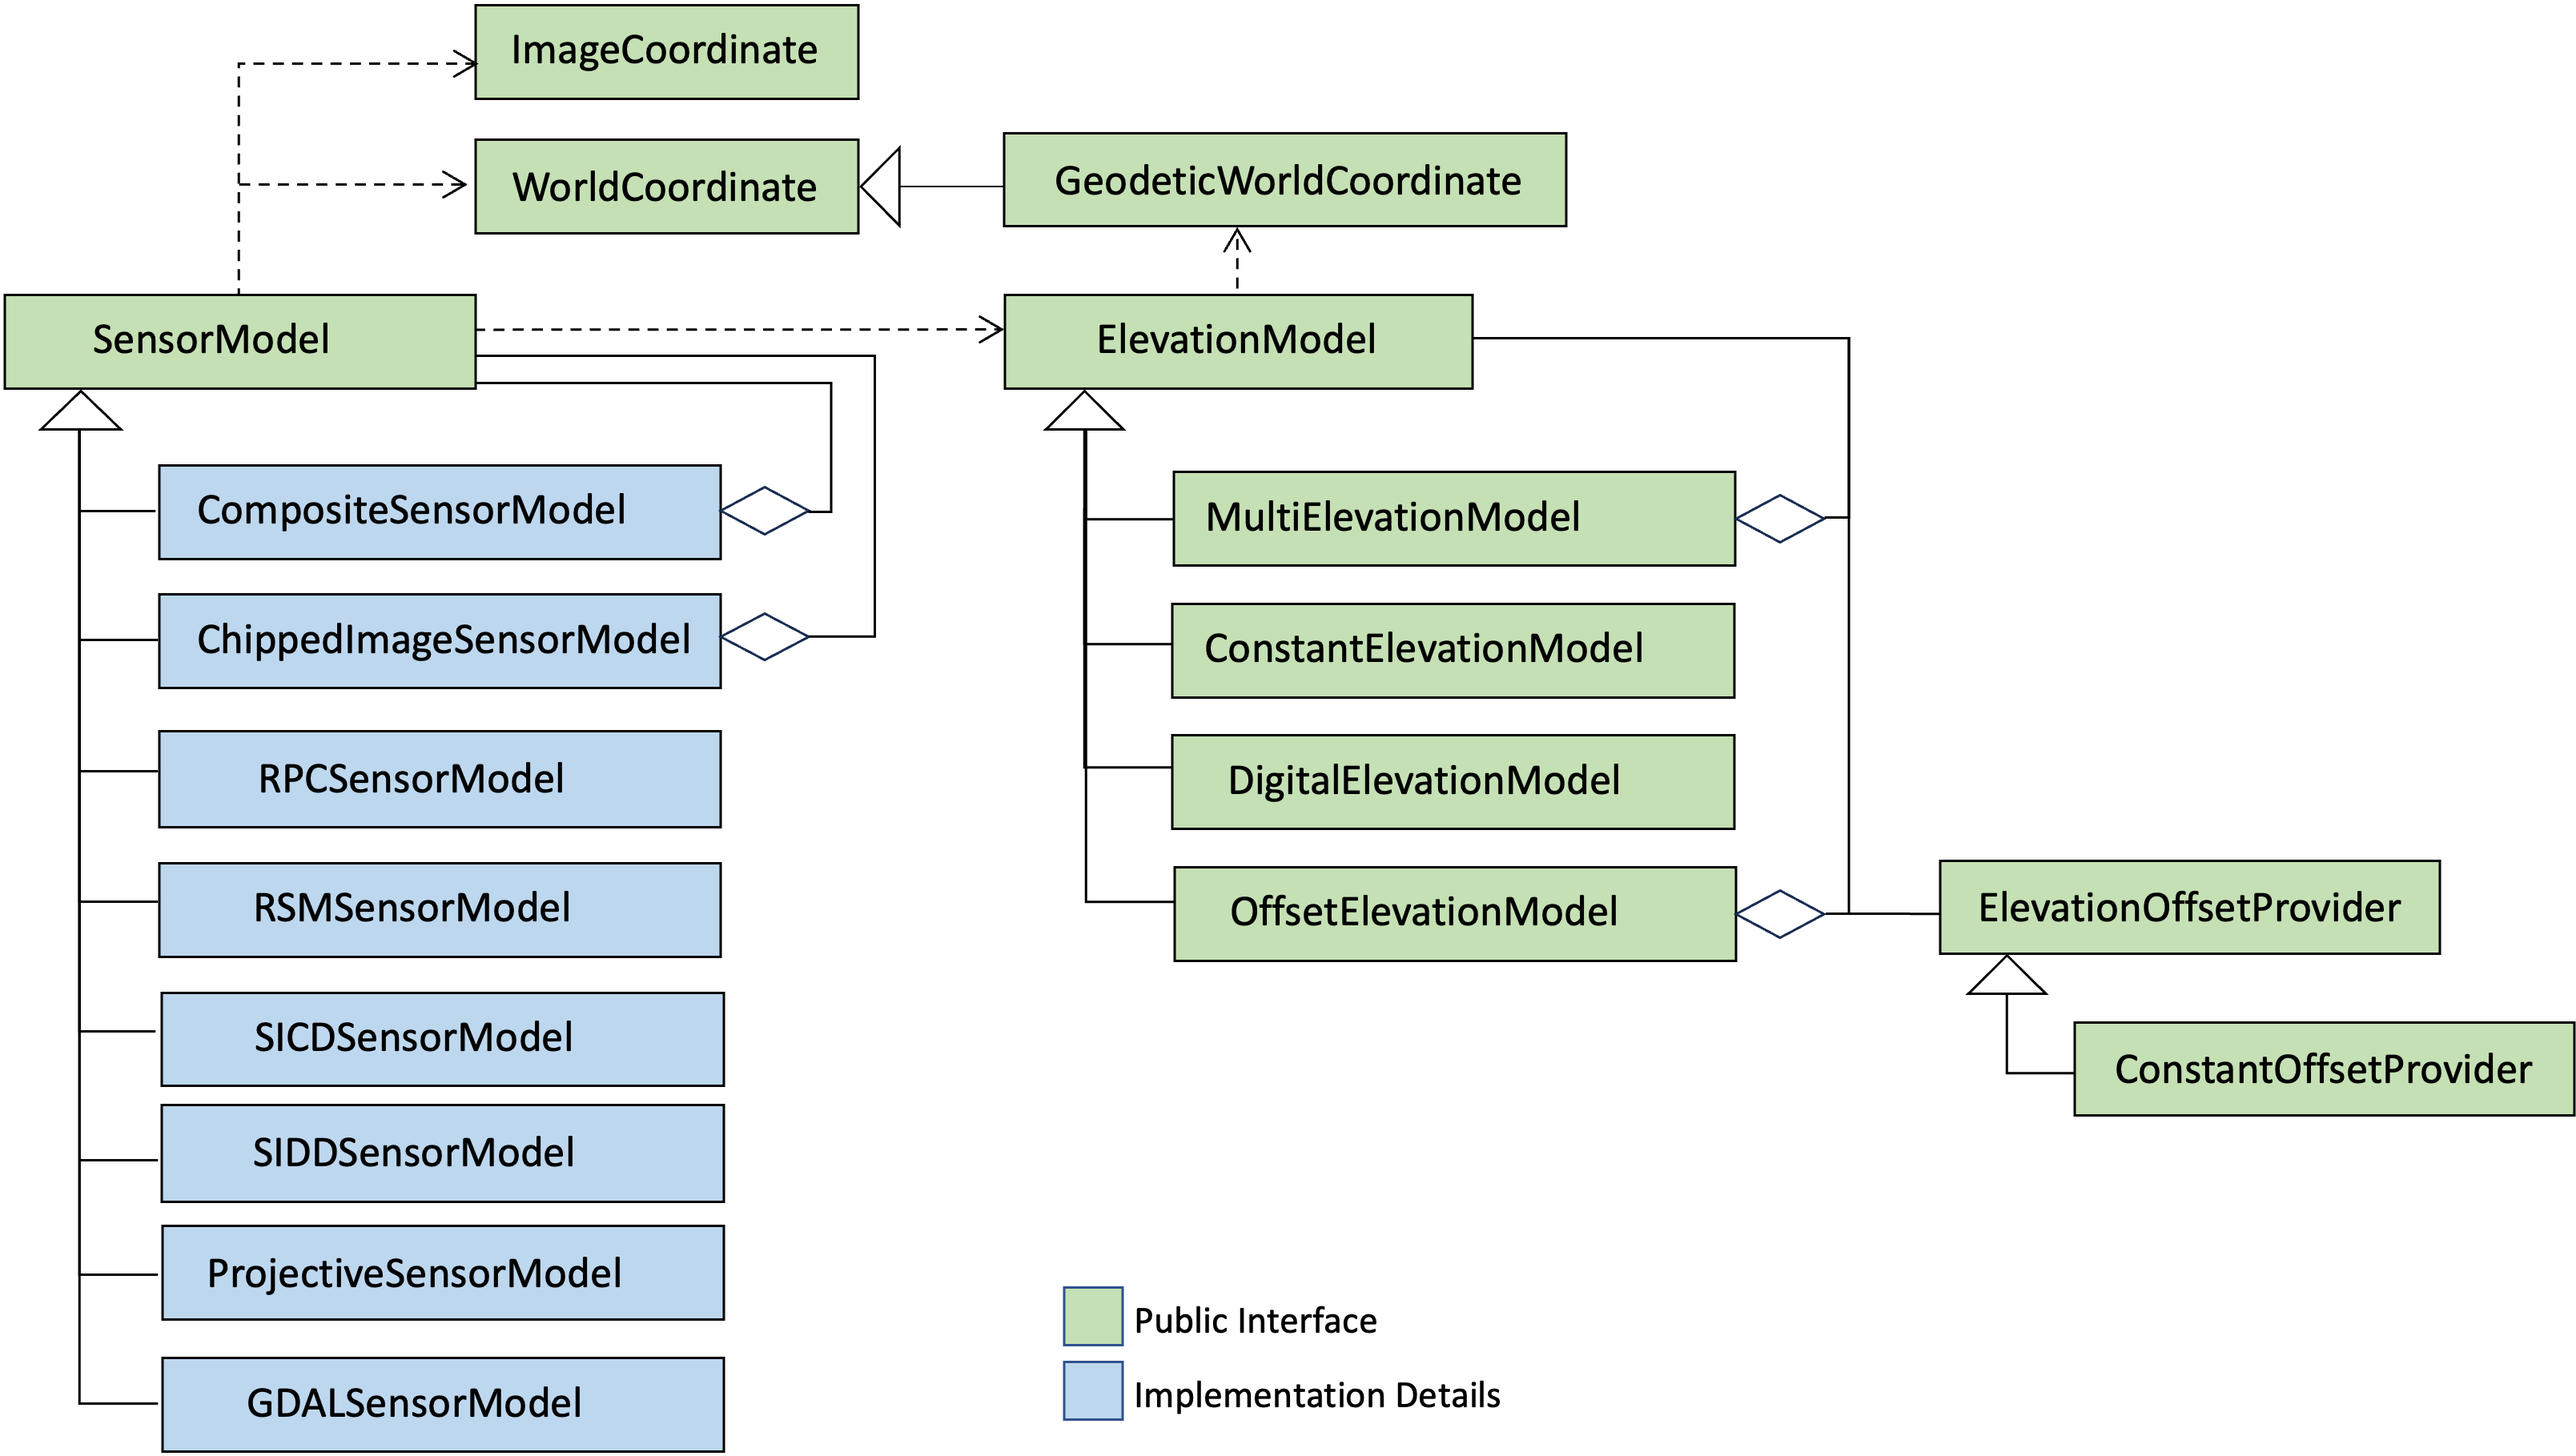
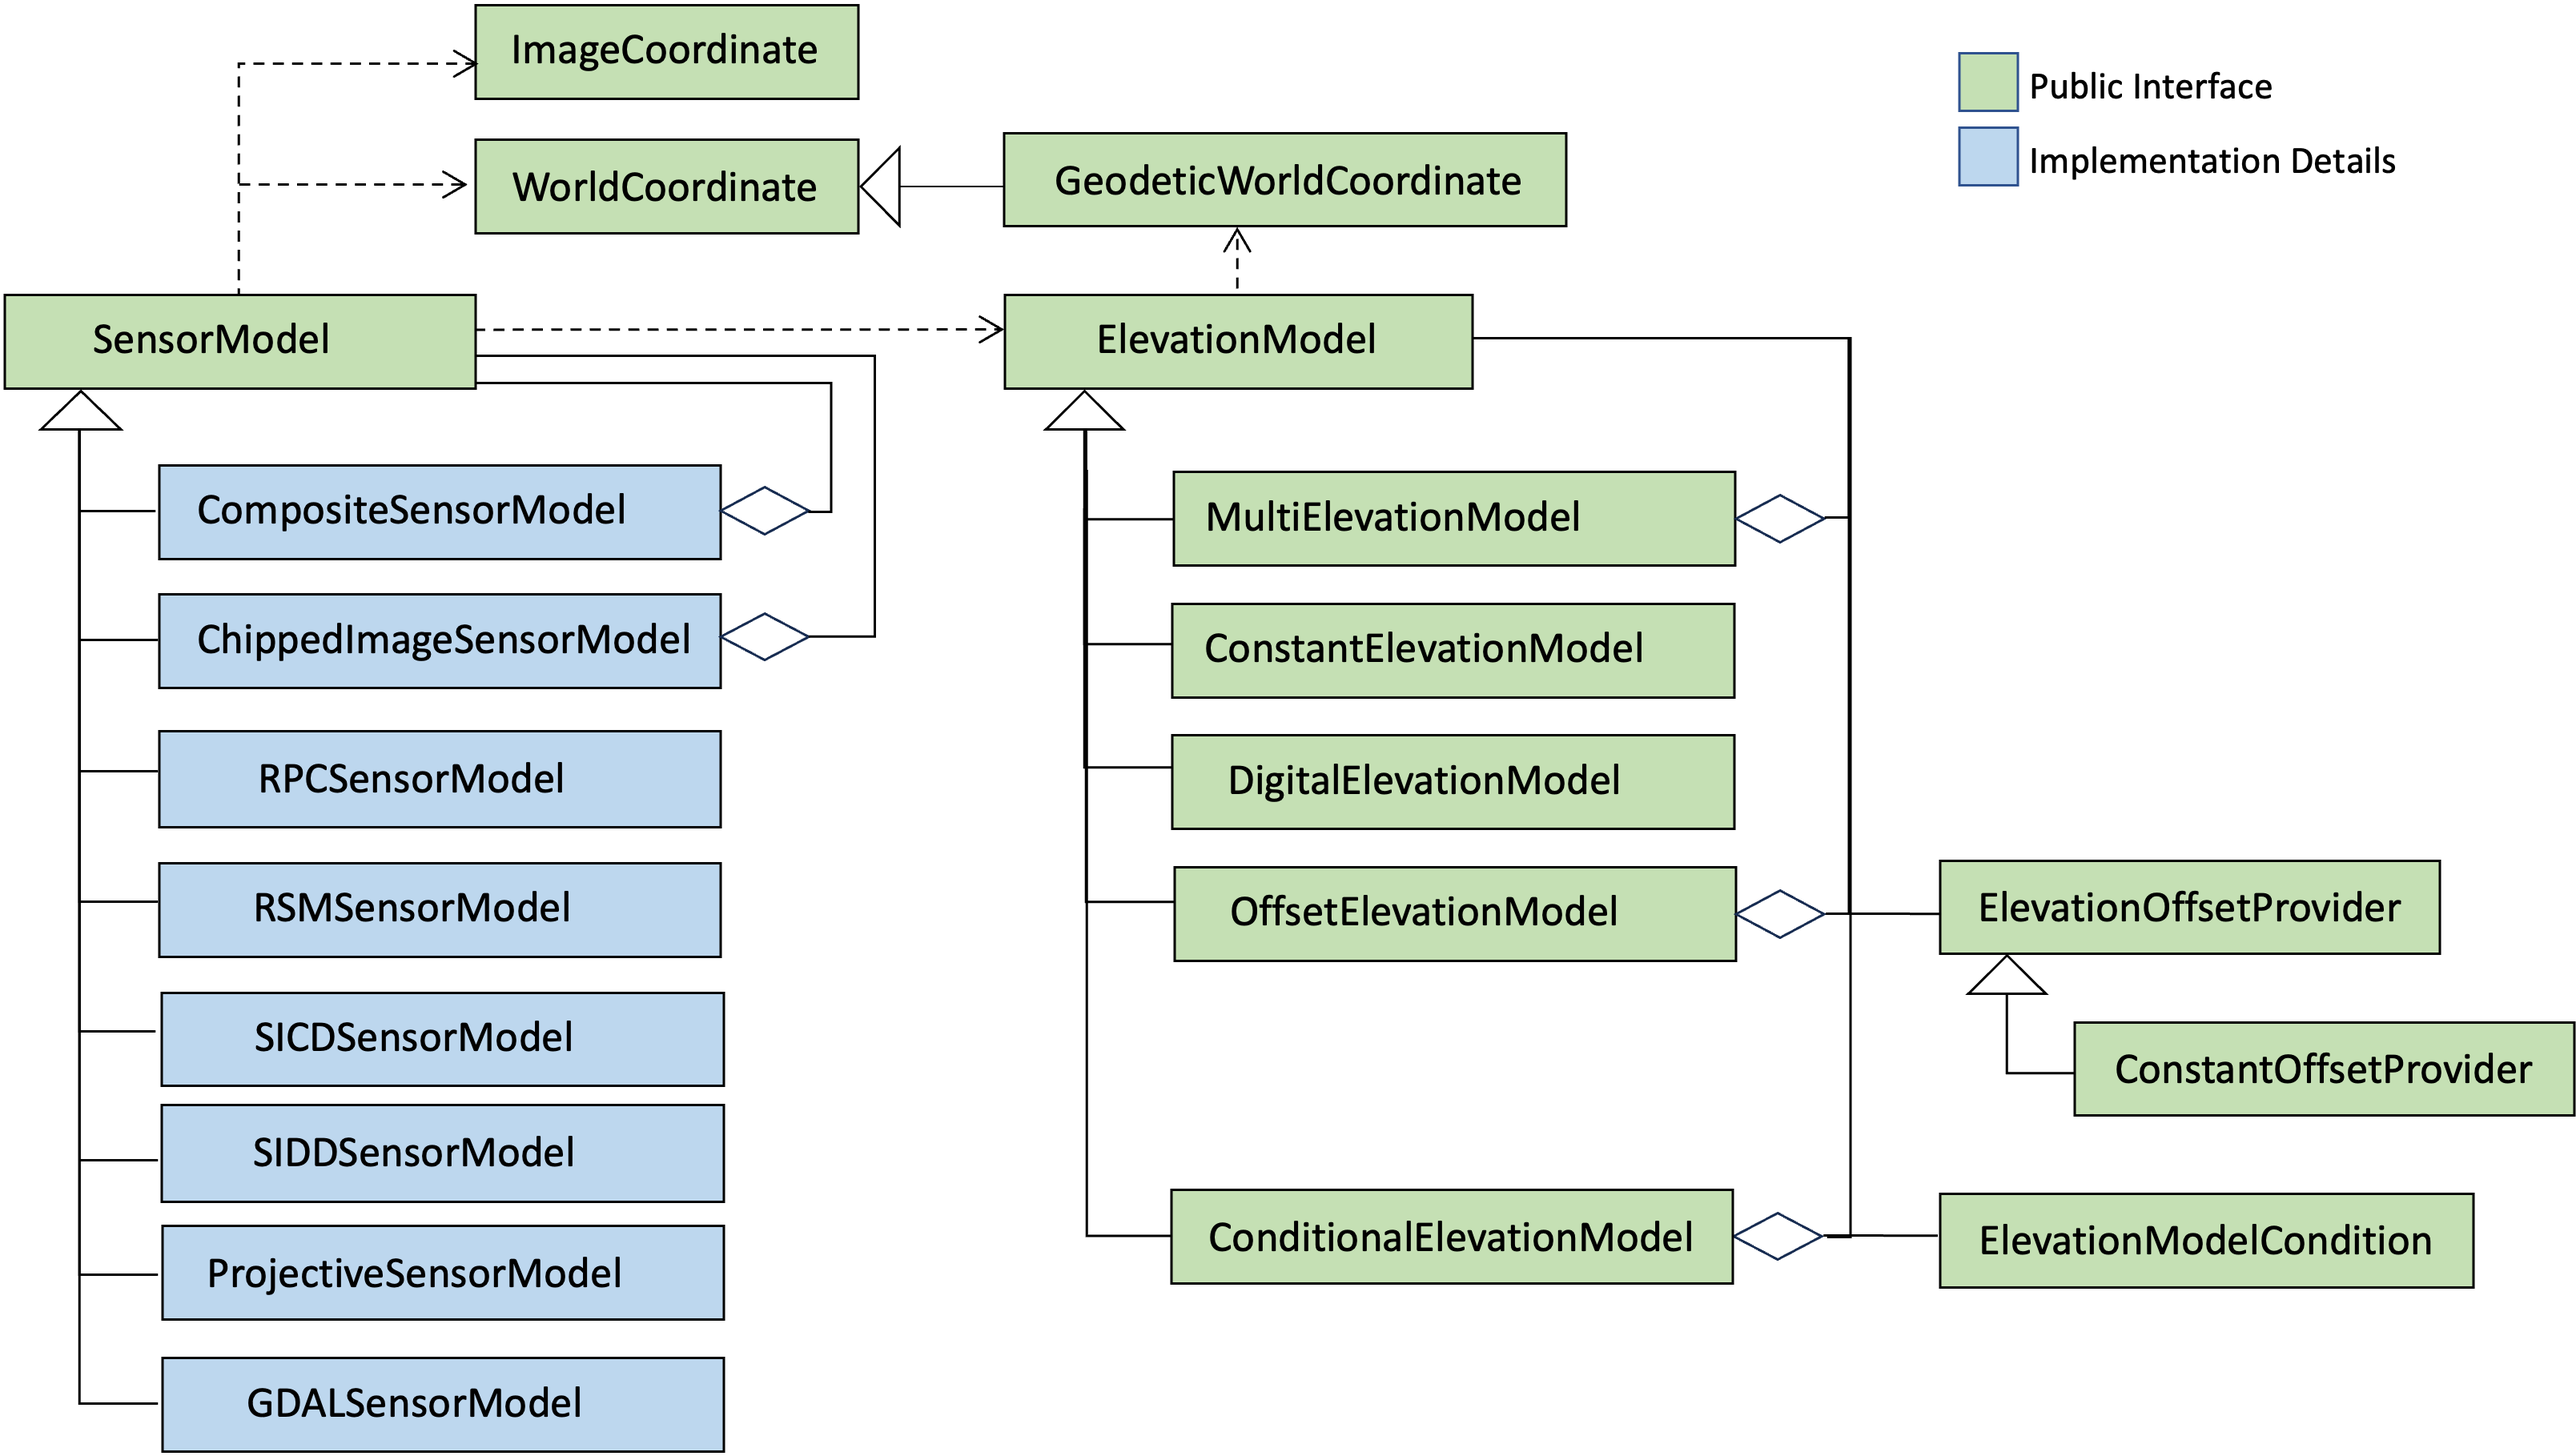
feat: conditional elevation model

Changed region(s): [[0.4041, 0.8004, 0.715, 0.9852], [0.746, 0.8004, 0.9636, 0.8928], [0.746, 0.0308, 0.9325, 0.1231]]

diff --git a/src/aws/osml/photogrammetry/conditional_elevation_model.py b/src/aws/osml/photogrammetry/conditional_elevation_model.py
@@ -1,0 +1,56 @@
+#  Copyright 2025-2025 General Atomics Integrated Intelligence, Inc.
+
+from typing import Optional
+
+from .coordinates import GeodeticWorldCoordinate
+from .elevation_model import ElevationModel, ElevationRegionSummary
+from .em_condition import ElevationModelCondition
+
+
+class ConditionalElevationModel(ElevationModel):
+    """
+    An elevation model that sets elevation using an inner elevation model only if it first passes a condition on the
+    given coordinate.
+    """
+
+    def __init__(
+        self,
+        inner_elevation_model: ElevationModel,
+        em_condition: ElevationModelCondition,
+    ) -> None:
+        """
+        Create the model using a nested ElevationModel and a condition for its usage.
+
+        :param inner_elevation_model: the inner model that actually sets elevation
+        :param em_condition: the condition that must pass to set elevation
+
+        :return: None
+        """
+        super().__init__()
+        self.inner_elevation_model = inner_elevation_model
+        self.em_condition = em_condition
+
+    def set_elevation(self, world_coordinate: GeodeticWorldCoordinate) -> bool:
+        """
+        Set elevation conditionally using the inner model.
+
+        :param world_coordinate: the coordinate to update
+
+        :return: True if the elevation was updated, else False
+        """
+        if self.em_condition.is_true(world_coordinate):
+            return self.inner_elevation_model.set_elevation(world_coordinate)
+        return False
+
+    def describe_region(
+        self,
+        world_coordinate: GeodeticWorldCoordinate,
+    ) -> Optional[ElevationRegionSummary]:
+        """
+        Unimplemented summary of region near the provided world coordinate
+
+        :param world_coordinate: the coordinate at the center of the region of interest
+
+        :return: None
+        """
+        return None

diff --git a/test/aws/osml/photogrammetry/test_conditional_elevation_model.py b/test/aws/osml/photogrammetry/test_conditional_elevation_model.py
@@ -1,0 +1,35 @@
+#  Copyright 2025-2025 General Atomics Integrated Intelligence, Inc.
+
+import unittest
+
+
+class TestElevationModel(unittest.TestCase):
+    def test_constant_elevation_model(self):
+        from aws.osml.photogrammetry.conditional_elevation_model import ConditionalElevationModel
+        from aws.osml.photogrammetry.coordinates import GeodeticWorldCoordinate
+        from aws.osml.photogrammetry.elevation_model import ConstantElevationModel
+        from aws.osml.photogrammetry.em_condition import EMConditionFalse, EMConditionTrue
+
+        inner_elevation_model = ConstantElevationModel(10.0)
+        elevation_model_false = ConditionalElevationModel(
+            inner_elevation_model=inner_elevation_model,
+            em_condition=EMConditionFalse(),
+        )
+        elevation_model_true = ConditionalElevationModel(
+            inner_elevation_model=inner_elevation_model,
+            em_condition=EMConditionTrue(),
+        )
+        world_coordinate = GeodeticWorldCoordinate([1.0, 2.0, 0.0])
+        assert world_coordinate.elevation == 0.0
+        assert not elevation_model_false.set_elevation(world_coordinate)
+        assert world_coordinate.longitude == 1
+        assert world_coordinate.latitude == 2
+        assert world_coordinate.elevation == 0.0
+        assert elevation_model_true.set_elevation(world_coordinate)
+        assert world_coordinate.longitude == 1
+        assert world_coordinate.latitude == 2
+        assert world_coordinate.elevation == 10.0
+
+
+if __name__ == "__main__":
+    unittest.main()

diff --git a/src/aws/osml/photogrammetry/em_condition.py b/src/aws/osml/photogrammetry/em_condition.py
@@ -1,0 +1,62 @@
+#  Copyright 2025-2025 General Atomics Integrated Intelligence, Inc.
+
+from abc import ABC, abstractmethod
+
+from .coordinates import GeodeticWorldCoordinate
+
+
+class ElevationModelCondition(ABC):
+    """
+    A base class functor for determining a True / False condition based on a given coordinate.
+    """
+
+    def __init__(self) -> None:
+        pass
+
+    @abstractmethod
+    def is_true(self, world_coordinate: GeodeticWorldCoordinate) -> bool:
+        """
+        Return if the condition for supplied coordinate is True.
+
+        :param world_coordinate: the coordinate to evaluate
+
+        :return: True if condition passes, else False
+        """
+
+
+class EMConditionFalse(ElevationModelCondition):
+    """
+    An always False ElevationModel condition.
+    """
+
+    def __init__(self) -> None:
+        pass
+
+    def is_true(self, world_coordinate: GeodeticWorldCoordinate) -> bool:
+        """
+        Always returns False.
+
+        :param world_coordinate: the coordinate to evaluate
+
+        :return: False
+        """
+        return False
+
+
+class EMConditionTrue(ElevationModelCondition):
+    """
+    An always True ElevationModel condition.
+    """
+
+    def __init__(self) -> None:
+        pass
+
+    def is_true(self, world_coordinate: GeodeticWorldCoordinate) -> bool:
+        """
+        Always returns True.
+
+        :param world_coordinate: the coordinate to evaluate
+
+        :return: True
+        """
+        return True

diff --git a/test/aws/osml/photogrammetry/test_em_condition.py b/test/aws/osml/photogrammetry/test_em_condition.py
@@ -1,0 +1,19 @@
+#  Copyright 2025-2025 General Atomics Integrated Intelligence, Inc.
+
+import unittest
+
+
+class TestEMCondition(unittest.TestCase):
+    def test_fixed_conditions(self):
+        from aws.osml.photogrammetry.coordinates import GeodeticWorldCoordinate
+        from aws.osml.photogrammetry.em_condition import EMConditionFalse, EMConditionTrue
+
+        em_condition_true = EMConditionTrue()
+        em_condition_false = EMConditionFalse()
+        world_coordinate = GeodeticWorldCoordinate([1.0, 2.0, 0.0])
+        assert em_condition_true.is_true(world_coordinate)
+        assert not em_condition_false.is_true(world_coordinate)
+
+
+if __name__ == "__main__":
+    unittest.main()
